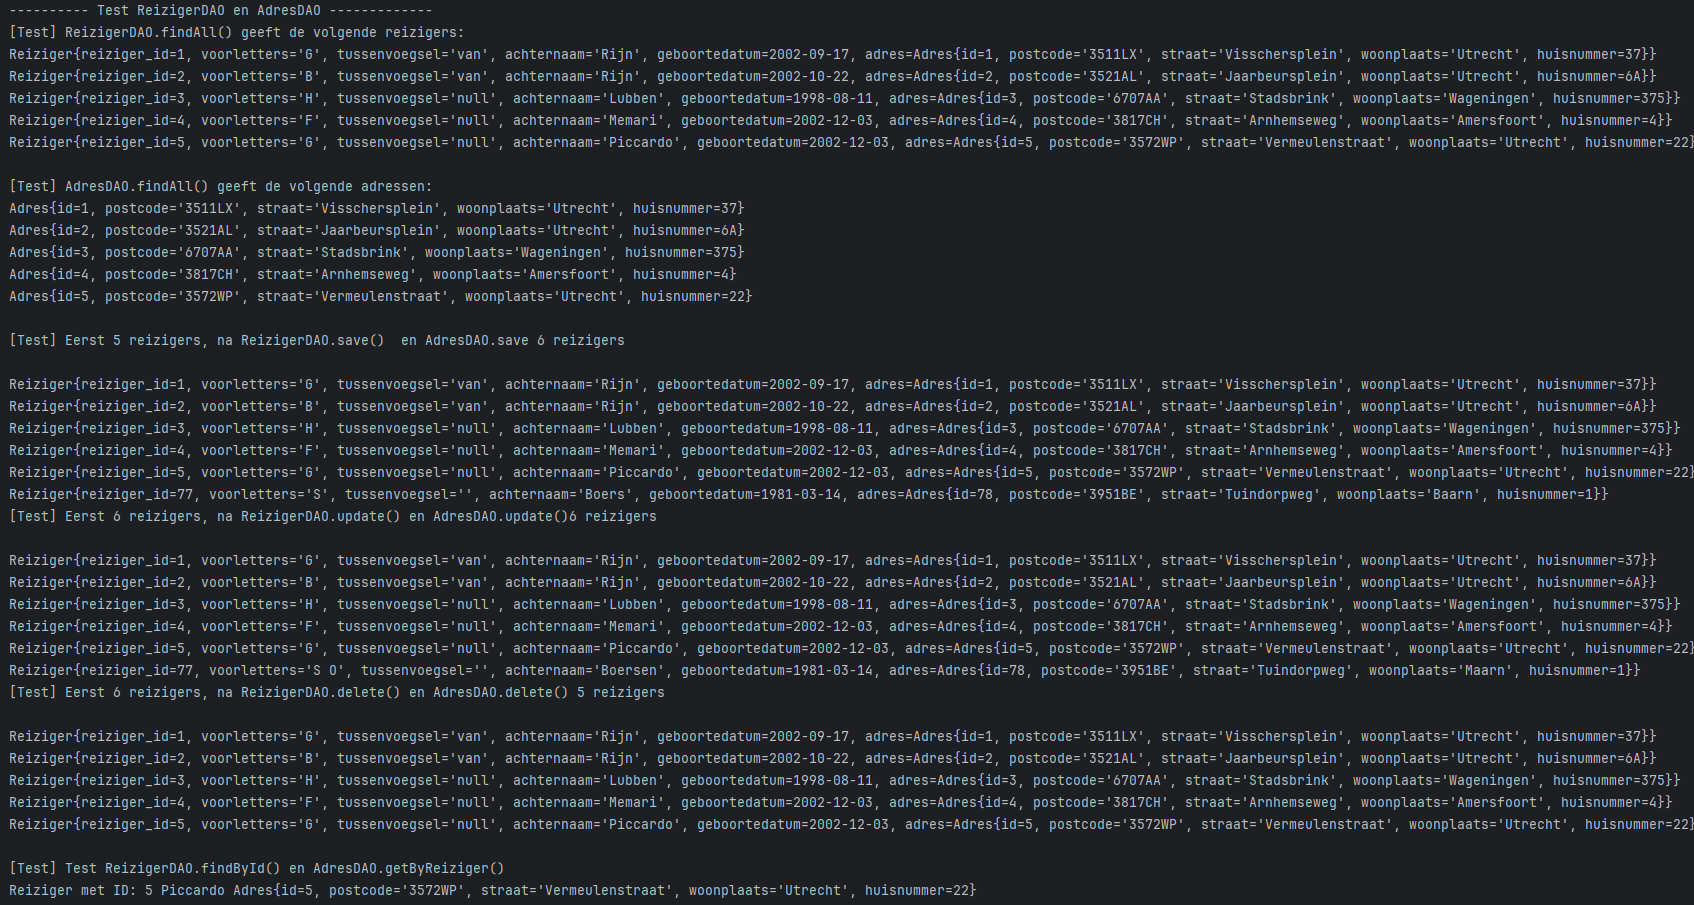
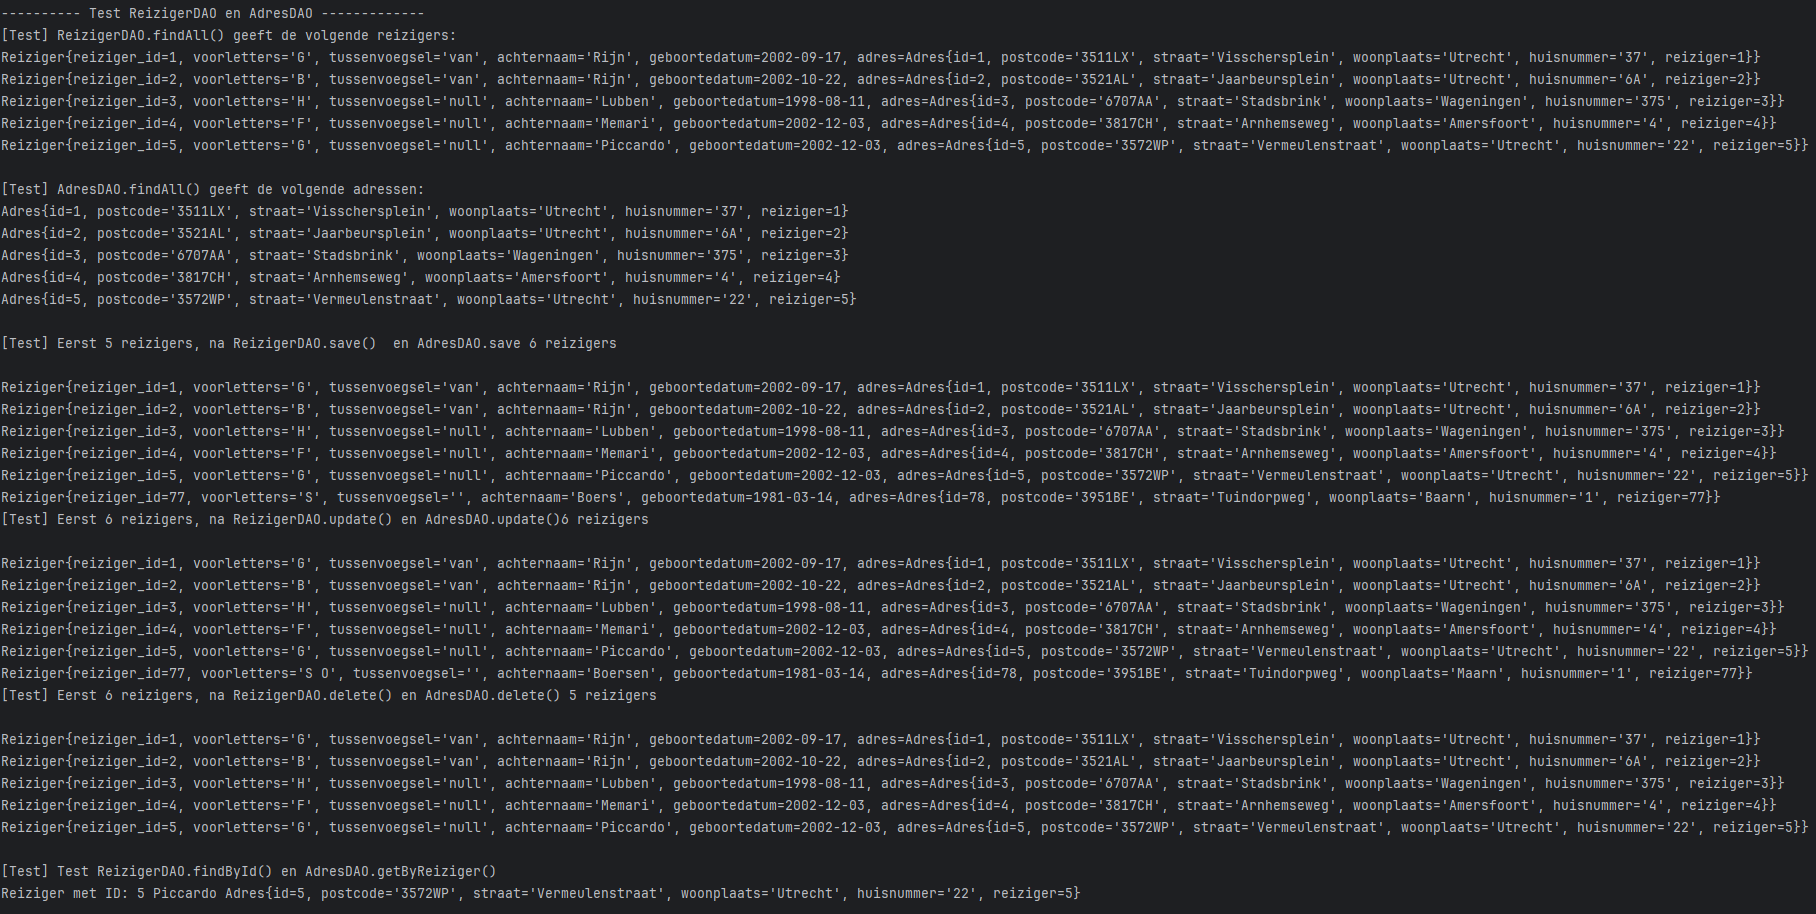
p3 but with minor chnages

Changed region(s): [[0.0, 0.3713, 1.0, 0.7735], [0.0, 0.0, 1.0, 0.3403], [0.0, 0.8044, 1.0, 0.9901]]

diff --git a/src/main/java/nl/hu/dp/domain/Adres.java b/src/main/java/nl/hu/dp/domain/Adres.java
@@ -66,7 +66,8 @@ public class Adres {
                 ", postcode='" + postcode + '\'' +
                 ", straat='" + straat + '\'' +
                 ", woonplaats='" + woonplaats + '\'' +
-                ", huisnummer=" + huisnummer +
+                ", huisnummer='" + huisnummer + '\'' +
+                ", reiziger=" + reiziger.getReiziger_id() +
                 '}';
     }
 }
